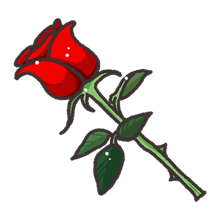
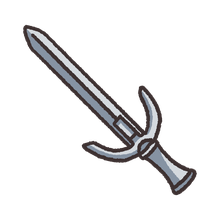
feat: 임시 장미 아이콘을 정식 실버(칼) 이미지로 교체

Changed region(s): [[0.0545, 0.0818, 0.9545, 0.9273]]

diff --git a/public/config.js b/public/config.js
@@ -1,6 +1,5 @@
 /**
  * PKH-maker3 설정 파일
- * 칼(실버) 이미지 수령 시 public/assets/bomb_silver.png 파일만 교체하시면 됩니다.
  */
 window.PKH_CONFIG = {
   // 1. 타이틀 & 로고 설정
@@ -36,13 +35,13 @@ window.PKH_CONFIG = {
     icon: 'assets/life_guinea.webp',
   },
 
-  // 3. 피해야 할 소품 — 실버 (현재 임시 이미지: 장미 -> 추후 칼 이미지로 파일 교체)
+  // 3. 피해야 할 소품 — 실버
   bomb: {
     id: 'silver',
     name: '실버',
     guideDesc:
       '위험한 소품입니다! 닿을 때마다 남은 기회가 하나씩 줄어듭니다. 세 번의 실수로 P.K.H☆ 여정이 끝날 수 있으니 조심하세요!',
-    image: 'assets/bomb_silver.png',
+    image: 'assets/bomb_silver.webp',
     size: 54,
     hitboxScale: 0.56,
   },

diff --git a/public/index.html b/public/index.html
@@ -200,7 +200,7 @@
           <div class="guide-grid" id="guide-roles-grid"></div>
 
           <div class="danger-guide-row">
-            <img id="guide-bomb-img" src="assets/bomb_silver.png" alt="실버" class="danger-thumb" loading="lazy" decoding="async" draggable="false" />
+            <img id="guide-bomb-img" src="assets/bomb_silver.webp" alt="실버" class="danger-thumb" loading="lazy" decoding="async" draggable="false" />
             <div class="danger-text">
               <strong id="guide-bomb-name">실버</strong>
               <p id="guide-bomb-desc">위험한 소품입니다! 닿을 때마다 남은 기회가 하나씩 줄어듭니다. 세 번의 실수로 P.K.H☆ 여정이 끝날 수 있으니 조심하세요!</p>

diff --git a/docs/SPEC.md b/docs/SPEC.md
@@ -45,7 +45,7 @@ PKH-maker3/
 | **연뮤캐 3** | **필로스** (`philos`) | 나비, 금색목걸이 | `필로스.png`, `필로스 아이콘 (1)/(2).png` | `char_philos.png`, `item_philos_1/2.png` | 준비 완료 |
 | **연뮤캐 4** | **레미** (`remy`) | 피, 체스말 | `레미.png`, `레미 아이콘 (1)/(2).png` | `char_remy.png`, `item_remy_1/2.png` | 준비 완료 |
 | **목숨(기회)** | 기니피그 (3개) | `실버` 접촉 시 1개씩 차감 | `목숨.png` | `life_guinea.png` | 준비 완료 |
-| **위험 소품** | **실버** (칼 모양 예정) | 3회 접촉 시 게임 종료 | `쓰려면 쓰세요/장미.png` *(임시)* | `bomb_silver.png` | **추후 칼 이미지로 교체 예정** |
+| **위험 소품** | **실버** (칼) | 3회 접촉 시 게임 종료 | `실버.png` | `bomb_silver.webp` | 준비 완료 |
 
 ---
 
@@ -99,4 +99,4 @@ PKH-maker3/
 - [x] **정식 타이틀 · 게임방법 · 6종 엔딩(4배역 + 동점 히든 `P.K.H☆` + 0점 `기니피그`) 문구 반영 완료**
 - [x] **무낙하 연속 콤보 점수(`+10`, 최대 `+100`) & 암전 구간 보너스 점수(`+50`) 반영 완료**
 - [x] **관리자 페이지(`/admin`) 구현 완료**
-- [ ] **`실버(칼 모양)` 이미지 교체**: 현재 임시 `장미.png`로 들어가 있는 `public/assets/bomb_silver.png` 파일을 실제 칼 이미지로 교체
+- [x] **`실버(칼 모양)` 이미지 교체**: `아이콘&SD/실버.png` 원본을 `public/assets/bomb_silver.webp` (및 `bomb_silver.png`)로 반영 완료
